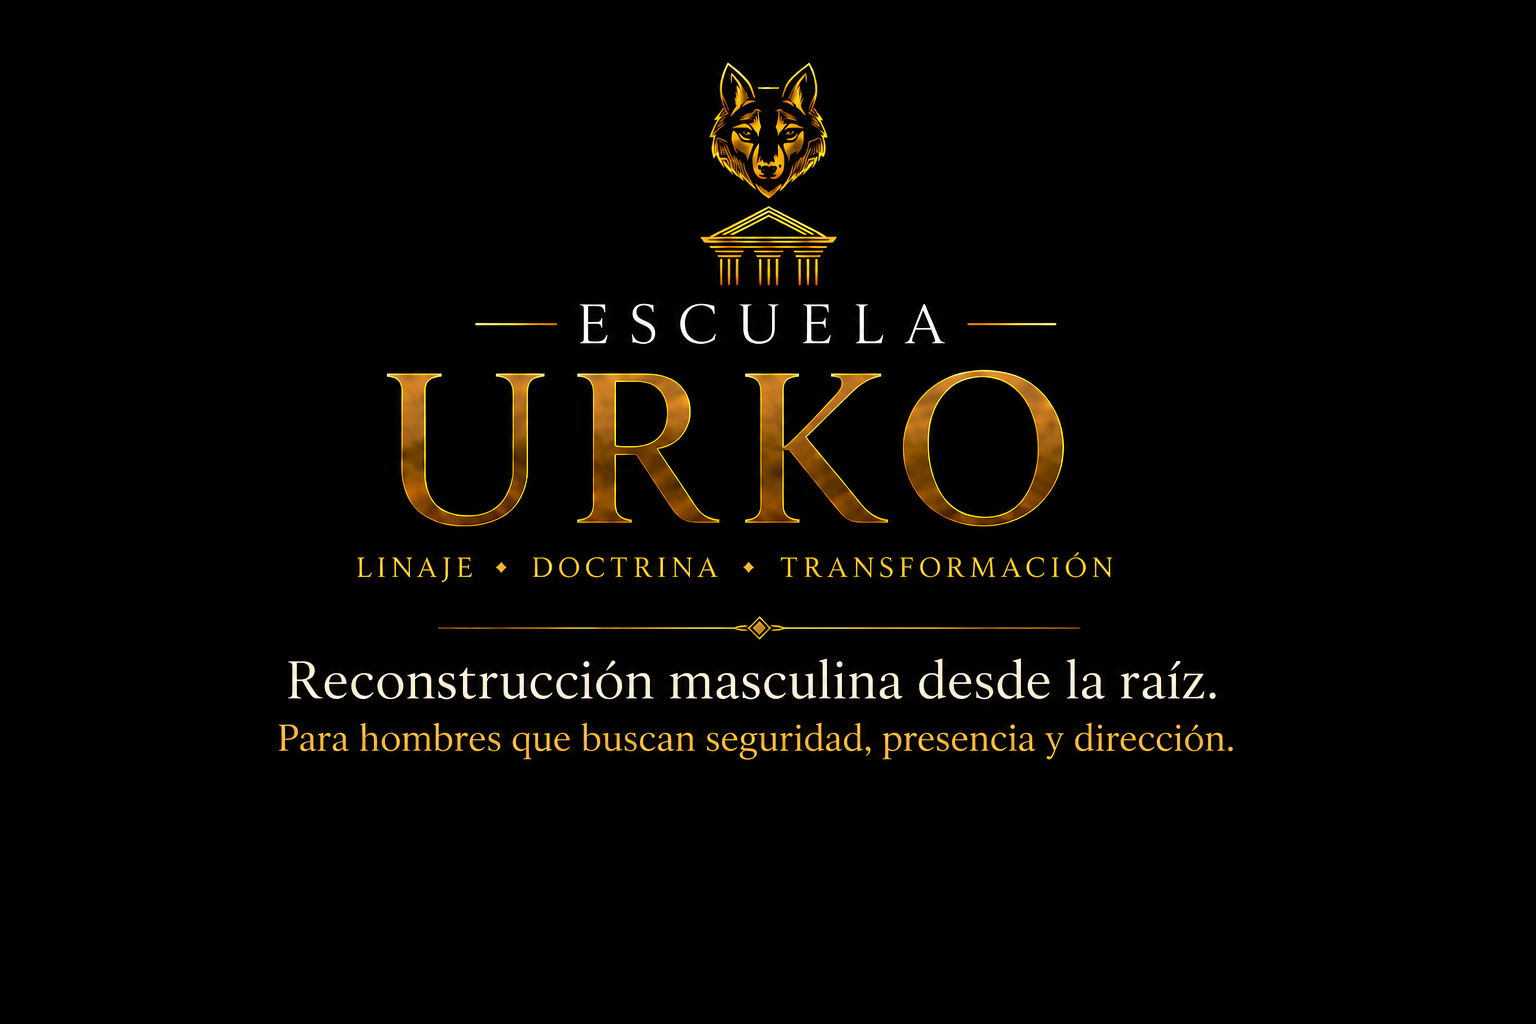
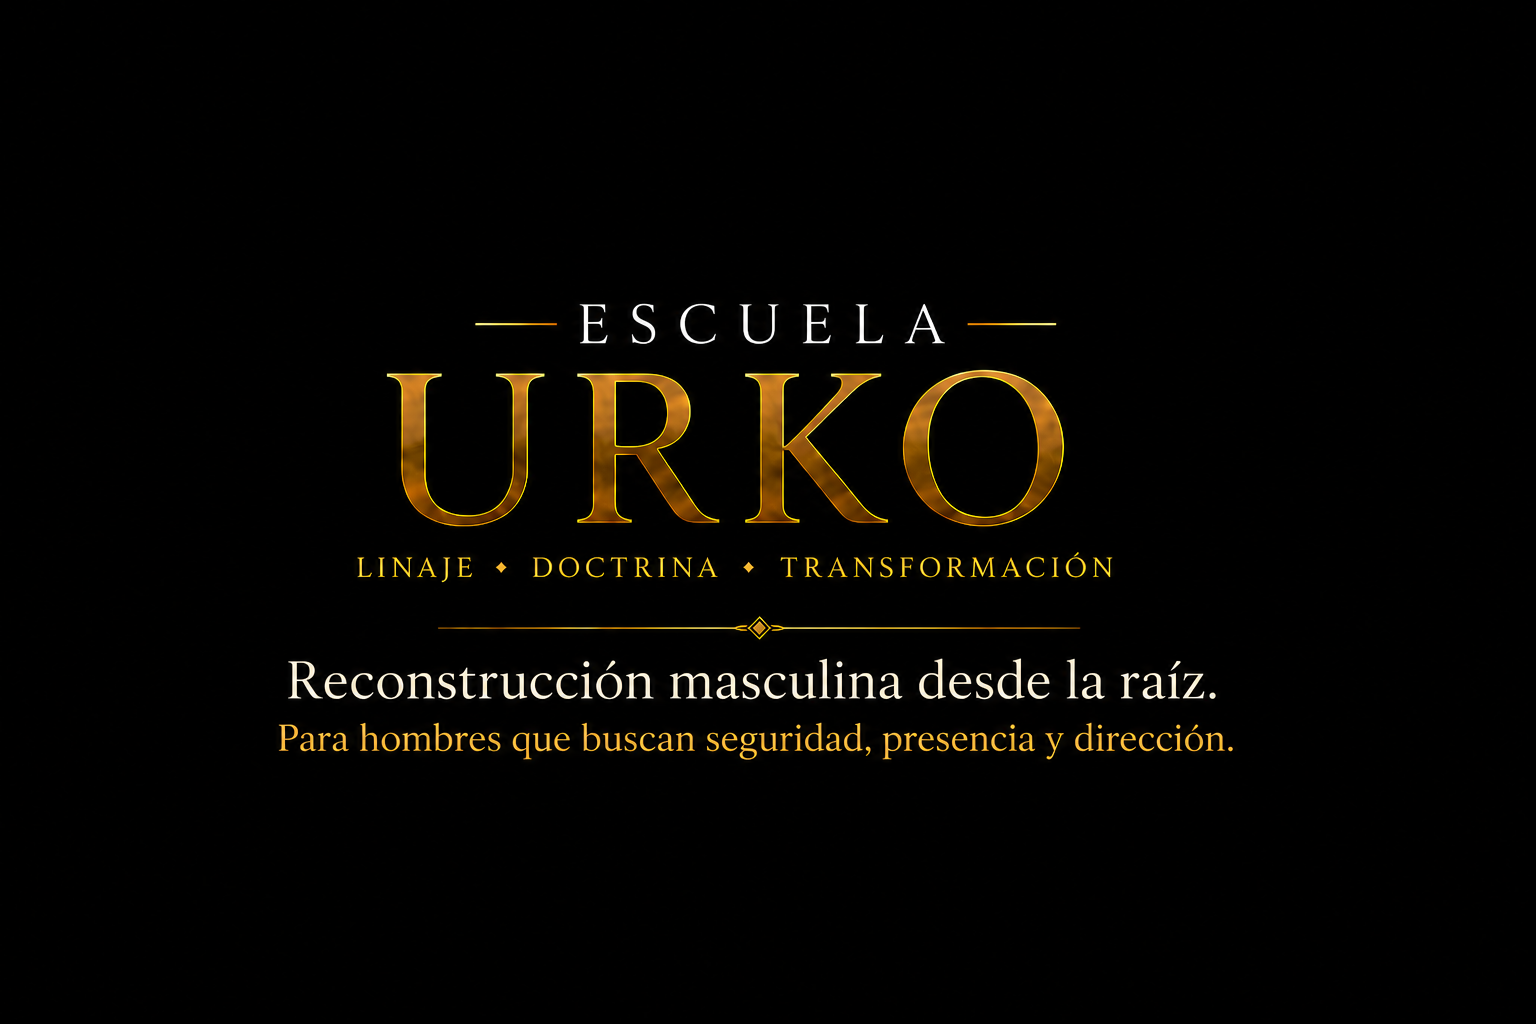
video nuevo

Changed region(s): [[0.4375, 0.0625, 0.5625, 0.2812]]

diff --git a/src/components/RecursosGratuitos.jsx b/src/components/RecursosGratuitos.jsx
@@ -4,8 +4,8 @@ import { useRevealOnScroll } from '../hooks/useRevealOnScroll';
 import guiaImg from '../assets/images/Guia.png';
 
 const YOUTUBE_VIDEO_ID = '6QLo79_UUSo';
-const YOUTUBE_WATCH_URL = `https://www.youtube.com/watch?v=${YOUTUBE_VIDEO_ID}`;
-const YOUTUBE_EMBED_URL = `https://www.youtube-nocookie.com/embed/${YOUTUBE_VIDEO_ID}?autoplay=1&mute=1&loop=1&playlist=${YOUTUBE_VIDEO_ID}&controls=0&showinfo=0&modestbranding=1&rel=0`;
+const YOUTUBE_WATCH_URL = 'https://www.youtube.com/live/6QLo79_UUSo';
+const YOUTUBE_EMBED_URL = `https://www.youtube.com/embed/${YOUTUBE_VIDEO_ID}?autoplay=1&mute=1&loop=1&playlist=${YOUTUBE_VIDEO_ID}&rel=0`;
 
 const RecursosGratuitos = () => {
   const sectionRef = useRevealOnScroll();